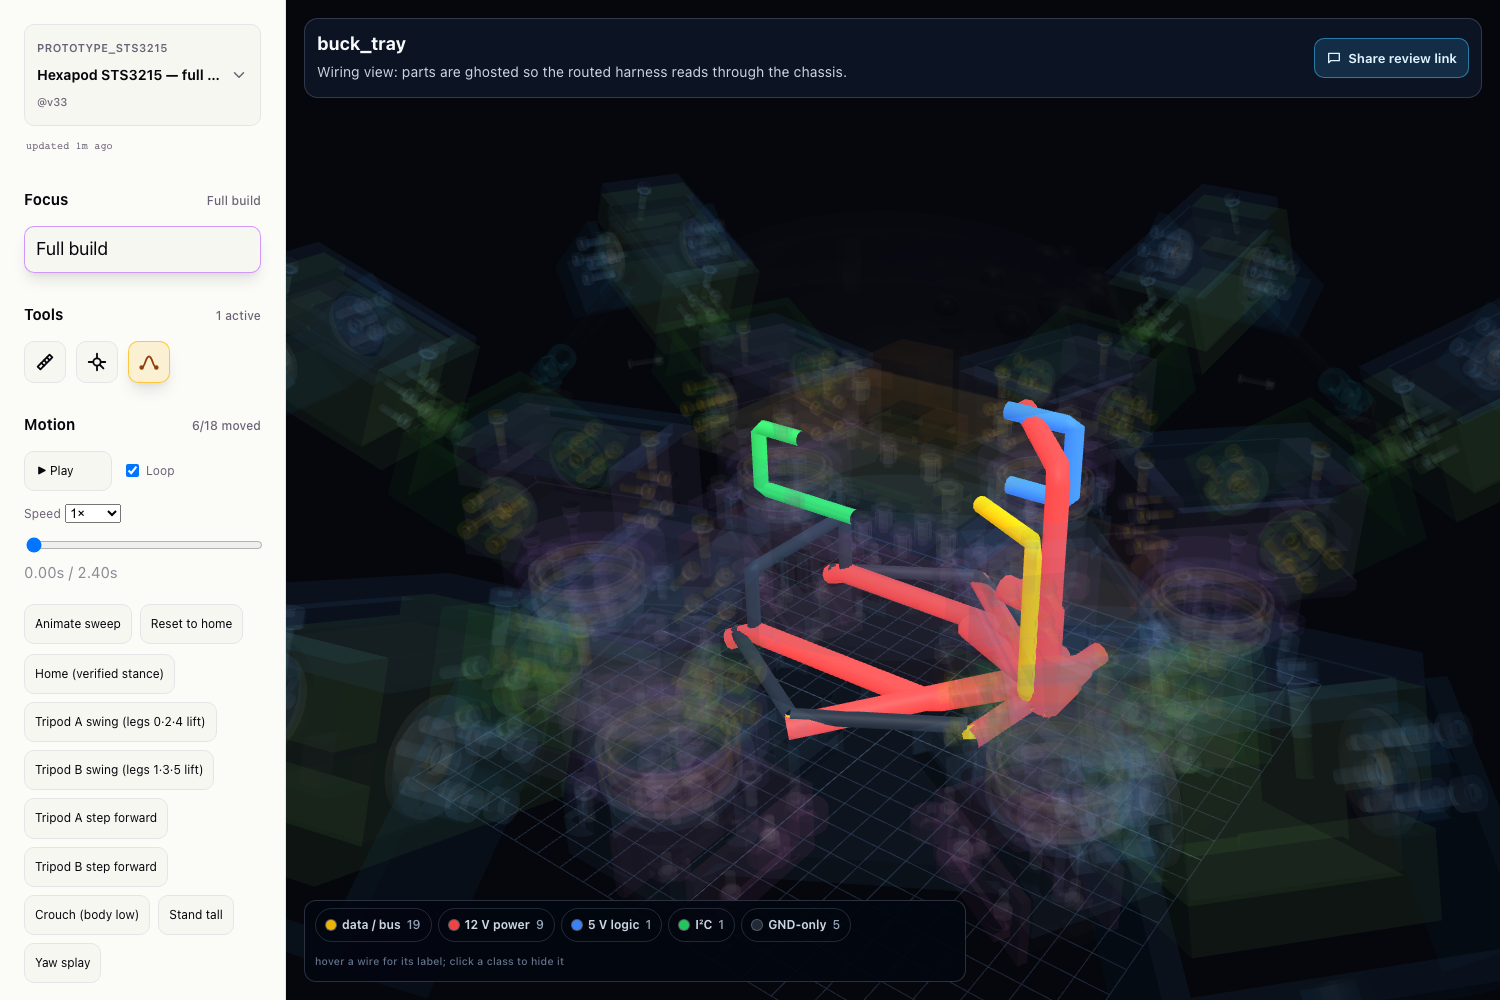
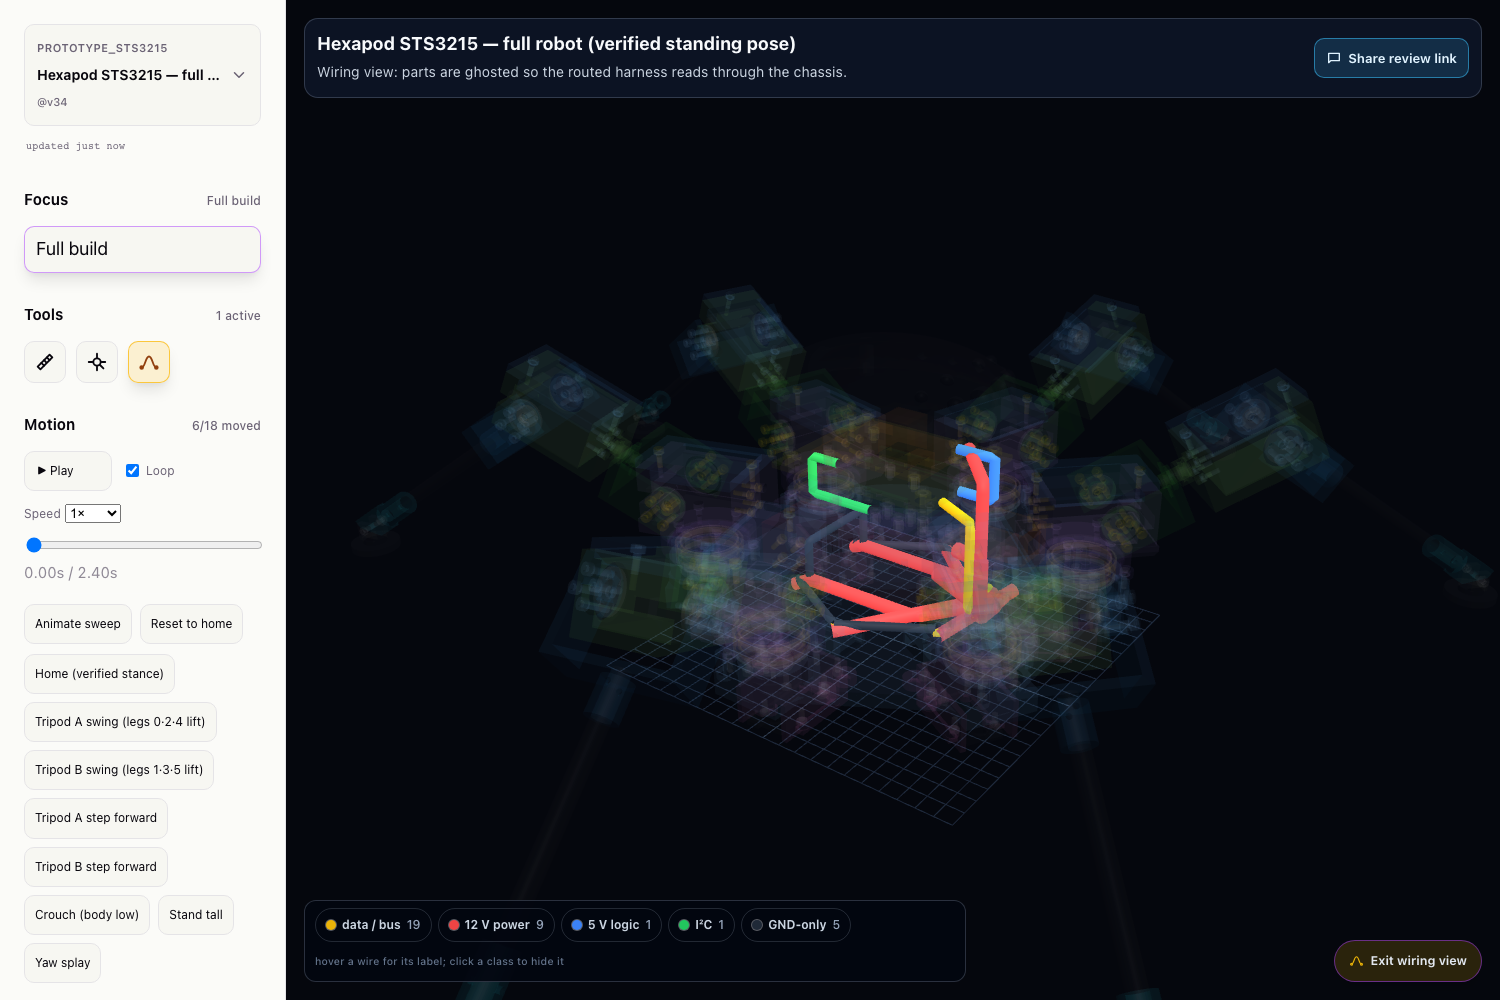
prototype_sts3215: pin foot-hinge bolts to the knee link (floating-screw fix)
The registry emits the M3x16 foot-hinge bolt + nyloc nut with joint=None,
so the scene builder's motion mapping dropped them into the static
"chassis" bucket even though they are leg-tagged and ride the tibia's foot
fitting. The viewer loads the walk clip's first keyframe (yaws at +/-14
deg), so every leg swung away from its static stance while the 12 foot
bolts stayed put -- the "screws are still floating" report. Leg-tagged
screw_chassis now maps to the knee link (all leg-tagged chassis hardware
is foot hardware), driving 438 instances instead of 426.

Refreshes the published build (v34) plus the default_view / wiring_view
verification screenshots.

diff --git a/hexapod_walker/prototype_sts3215/tools/full_robot_viz_build.py b/hexapod_walker/prototype_sts3215/tools/full_robot_viz_build.py
@@ -914,7 +914,17 @@ def _build_motion(instances_json, chassis_lift, legs):
         leg = inst.get("leg")
         if leg is None:
             continue
-        link = _MOTION_LINK_OF_PARTTYPE.get(inst["partType"])
+        part = inst["partType"]
+        # Foot-hinge hardware (the M3x16 hinge bolt + nyloc nut) comes out of
+        # the registry with joint=None, so it lands in the generic
+        # "screw_chassis" bucket -- but it is LEG-tagged and rides the tibia's
+        # foot fitting, so it must swing with the knee link.  Without this the
+        # 2 bolts/leg stayed at their static stance position and floated in
+        # mid-air whenever a pose or the walk clip moved the leg (the Jul 2026
+        # "floating foot screws" bug; every OTHER leg-tagged screw_chassis is
+        # also foot hardware, so the blanket mapping is safe).
+        link = ("knee" if part == "screw_chassis"
+                else _MOTION_LINK_OF_PARTTYPE.get(part))
         if link is None:
             continue
         ids_by.setdefault((leg, link), []).append(inst["id"])
